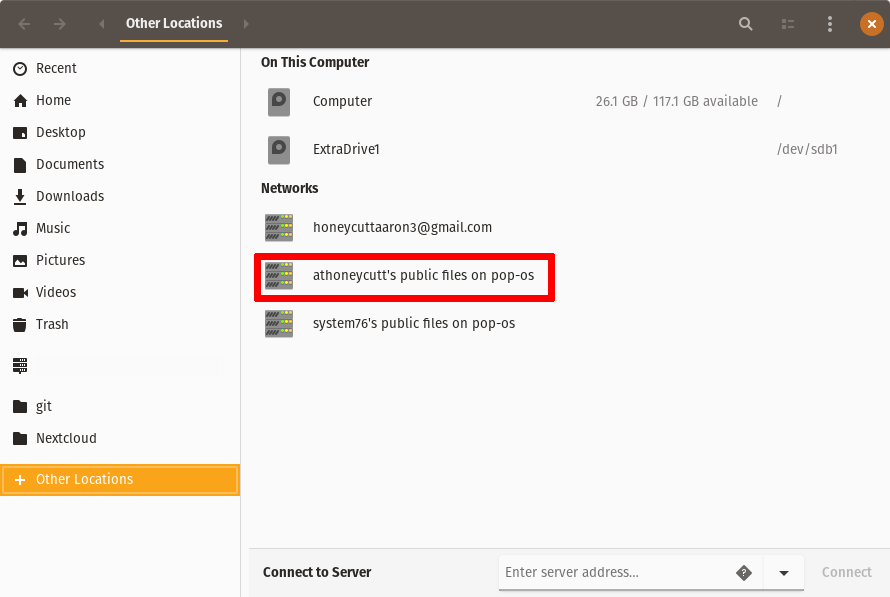
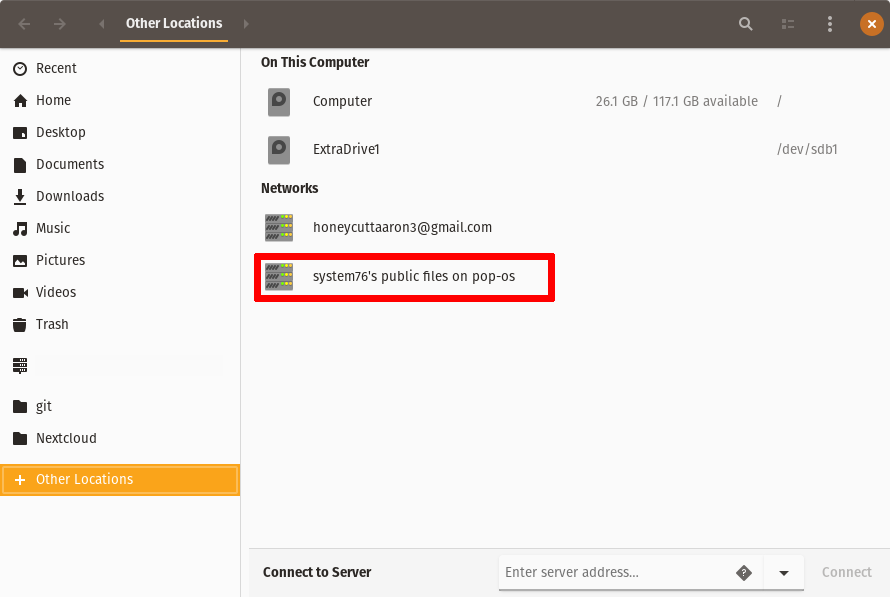
fix styling and grammar

Changed region(s): [[0.364, 0.5126, 0.5764, 0.5729], [0.3034, 0.4221, 0.6067, 0.4824], [0.273, 0.5126, 0.3337, 0.5729]]

diff --git a/_articles/file-sharing.md b/_articles/file-sharing.md
@@ -16,8 +16,8 @@ section: articles
 
 ## Install the needed package
 
-First let's open a terminal using either <kbd>CTRL</kbd>+<kbd>ALT</kbd>+<kbd>T</kbd>
- or <kbd><span class="fl-pop-key"></span></kbd>+<kbd>T</kbd>.
+First let's open a terminal using either <kbd>CTRL</kbd>+<kbd>ALT</kbd>+<kbd>T</kbd> (Ubuntu)
+ or <kbd><span class="fl-pop-key"></span></kbd>+<kbd>T</kbd> (Pop_OS).
 
 Then run this command:
 
@@ -27,12 +27,12 @@ sudo apt install gnome-user-share
 
 ### Enable File Sharing
 
-Next we will open the Settings application and go to 'Sharing'. Then click 'File Sharing', turn it on and make sure the network you want to share it with is enabled.
+Next we will open the <u>Settings</u> application and go to **Sharing**. Then click the toggle to the right of 'Sharing' to turn on sharing. Now click **File Sharing**, turn it on and make sure the network you want to share it with is enabled.
 
 ![Settings](/images/file-sharing/settings.png)
 
 ### Connecting to the Public Folder 
 
-On the computer that you can to share to open the Files application (Nautilus) and click on 'Other Locations' on the left side panel. In this example you will see the machine that we are using as 'athoneycutt's public files on pop-os'. Click the name that matches the name of the computer that you are sharing and you will see the folders and files that are in the other computer's Public Folder.
+On the computer that you want to share to, open the <u>Files</u> application (Nautilus) and click on **Other Locations** on the left side panel. In this example you will see the machine that we are using as "system76's public files on pop-os". Click the name that matches the name of the computer that you are sharing from and you will see the folders and files that are on the other computer's Public Folder.
 
 ![Nautilus](/images/file-sharing/connecting-to-public-folder.png)
